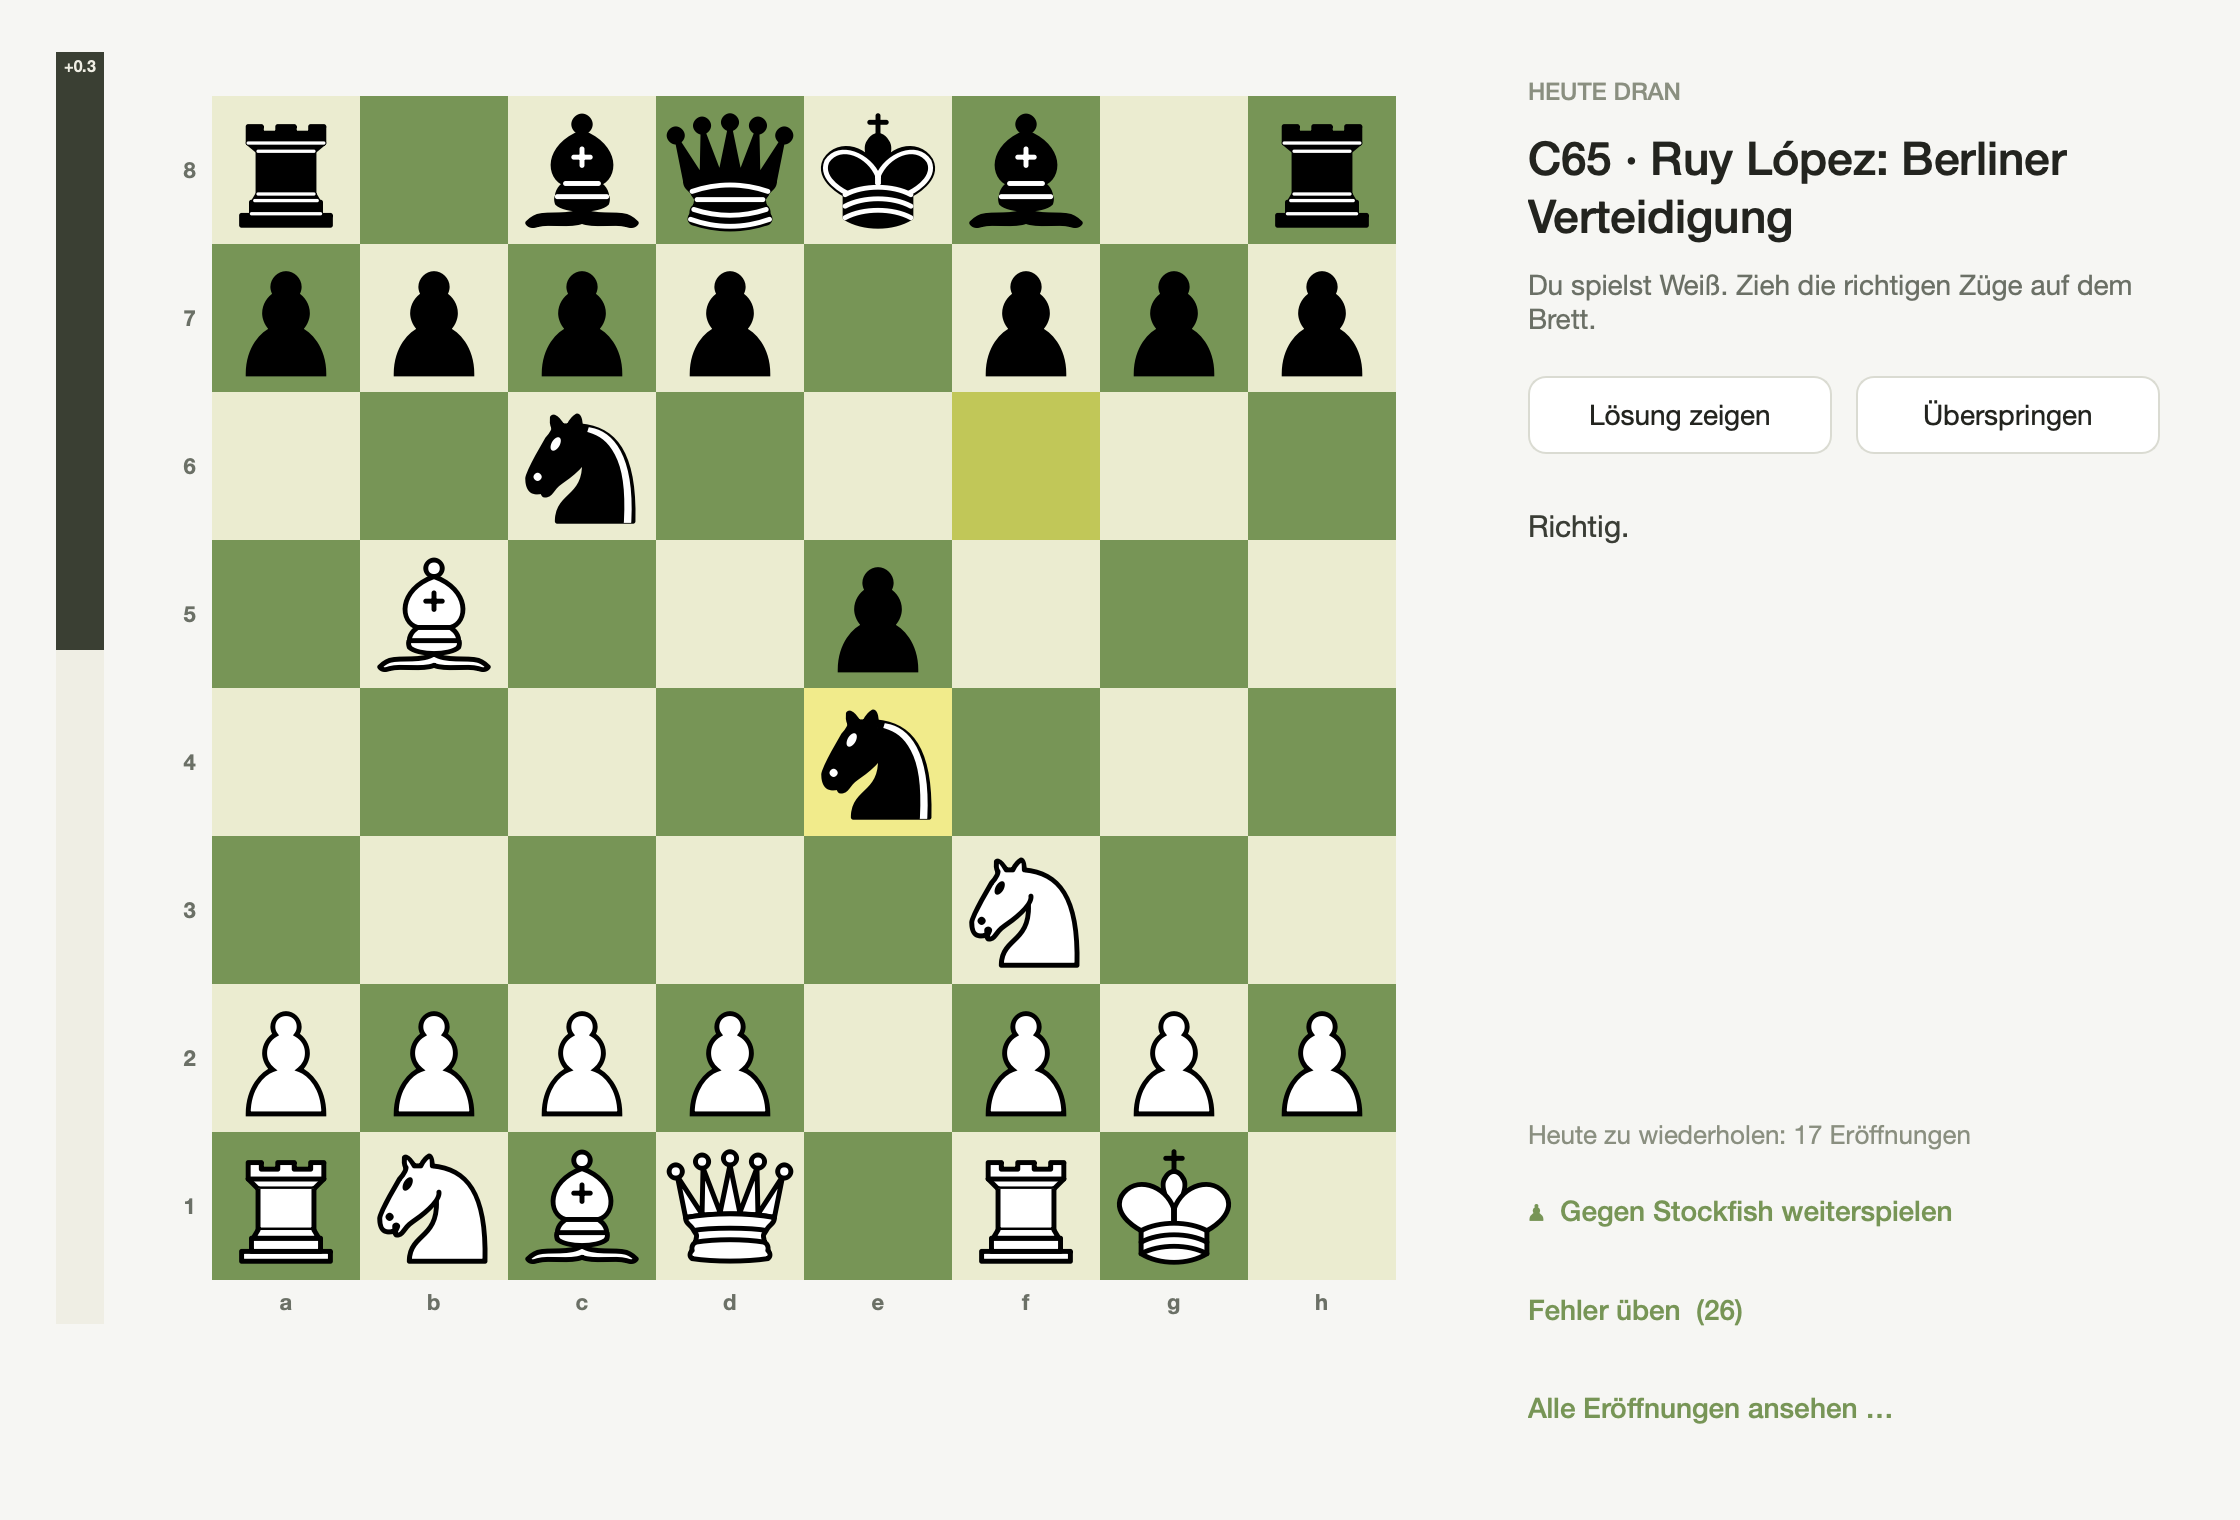
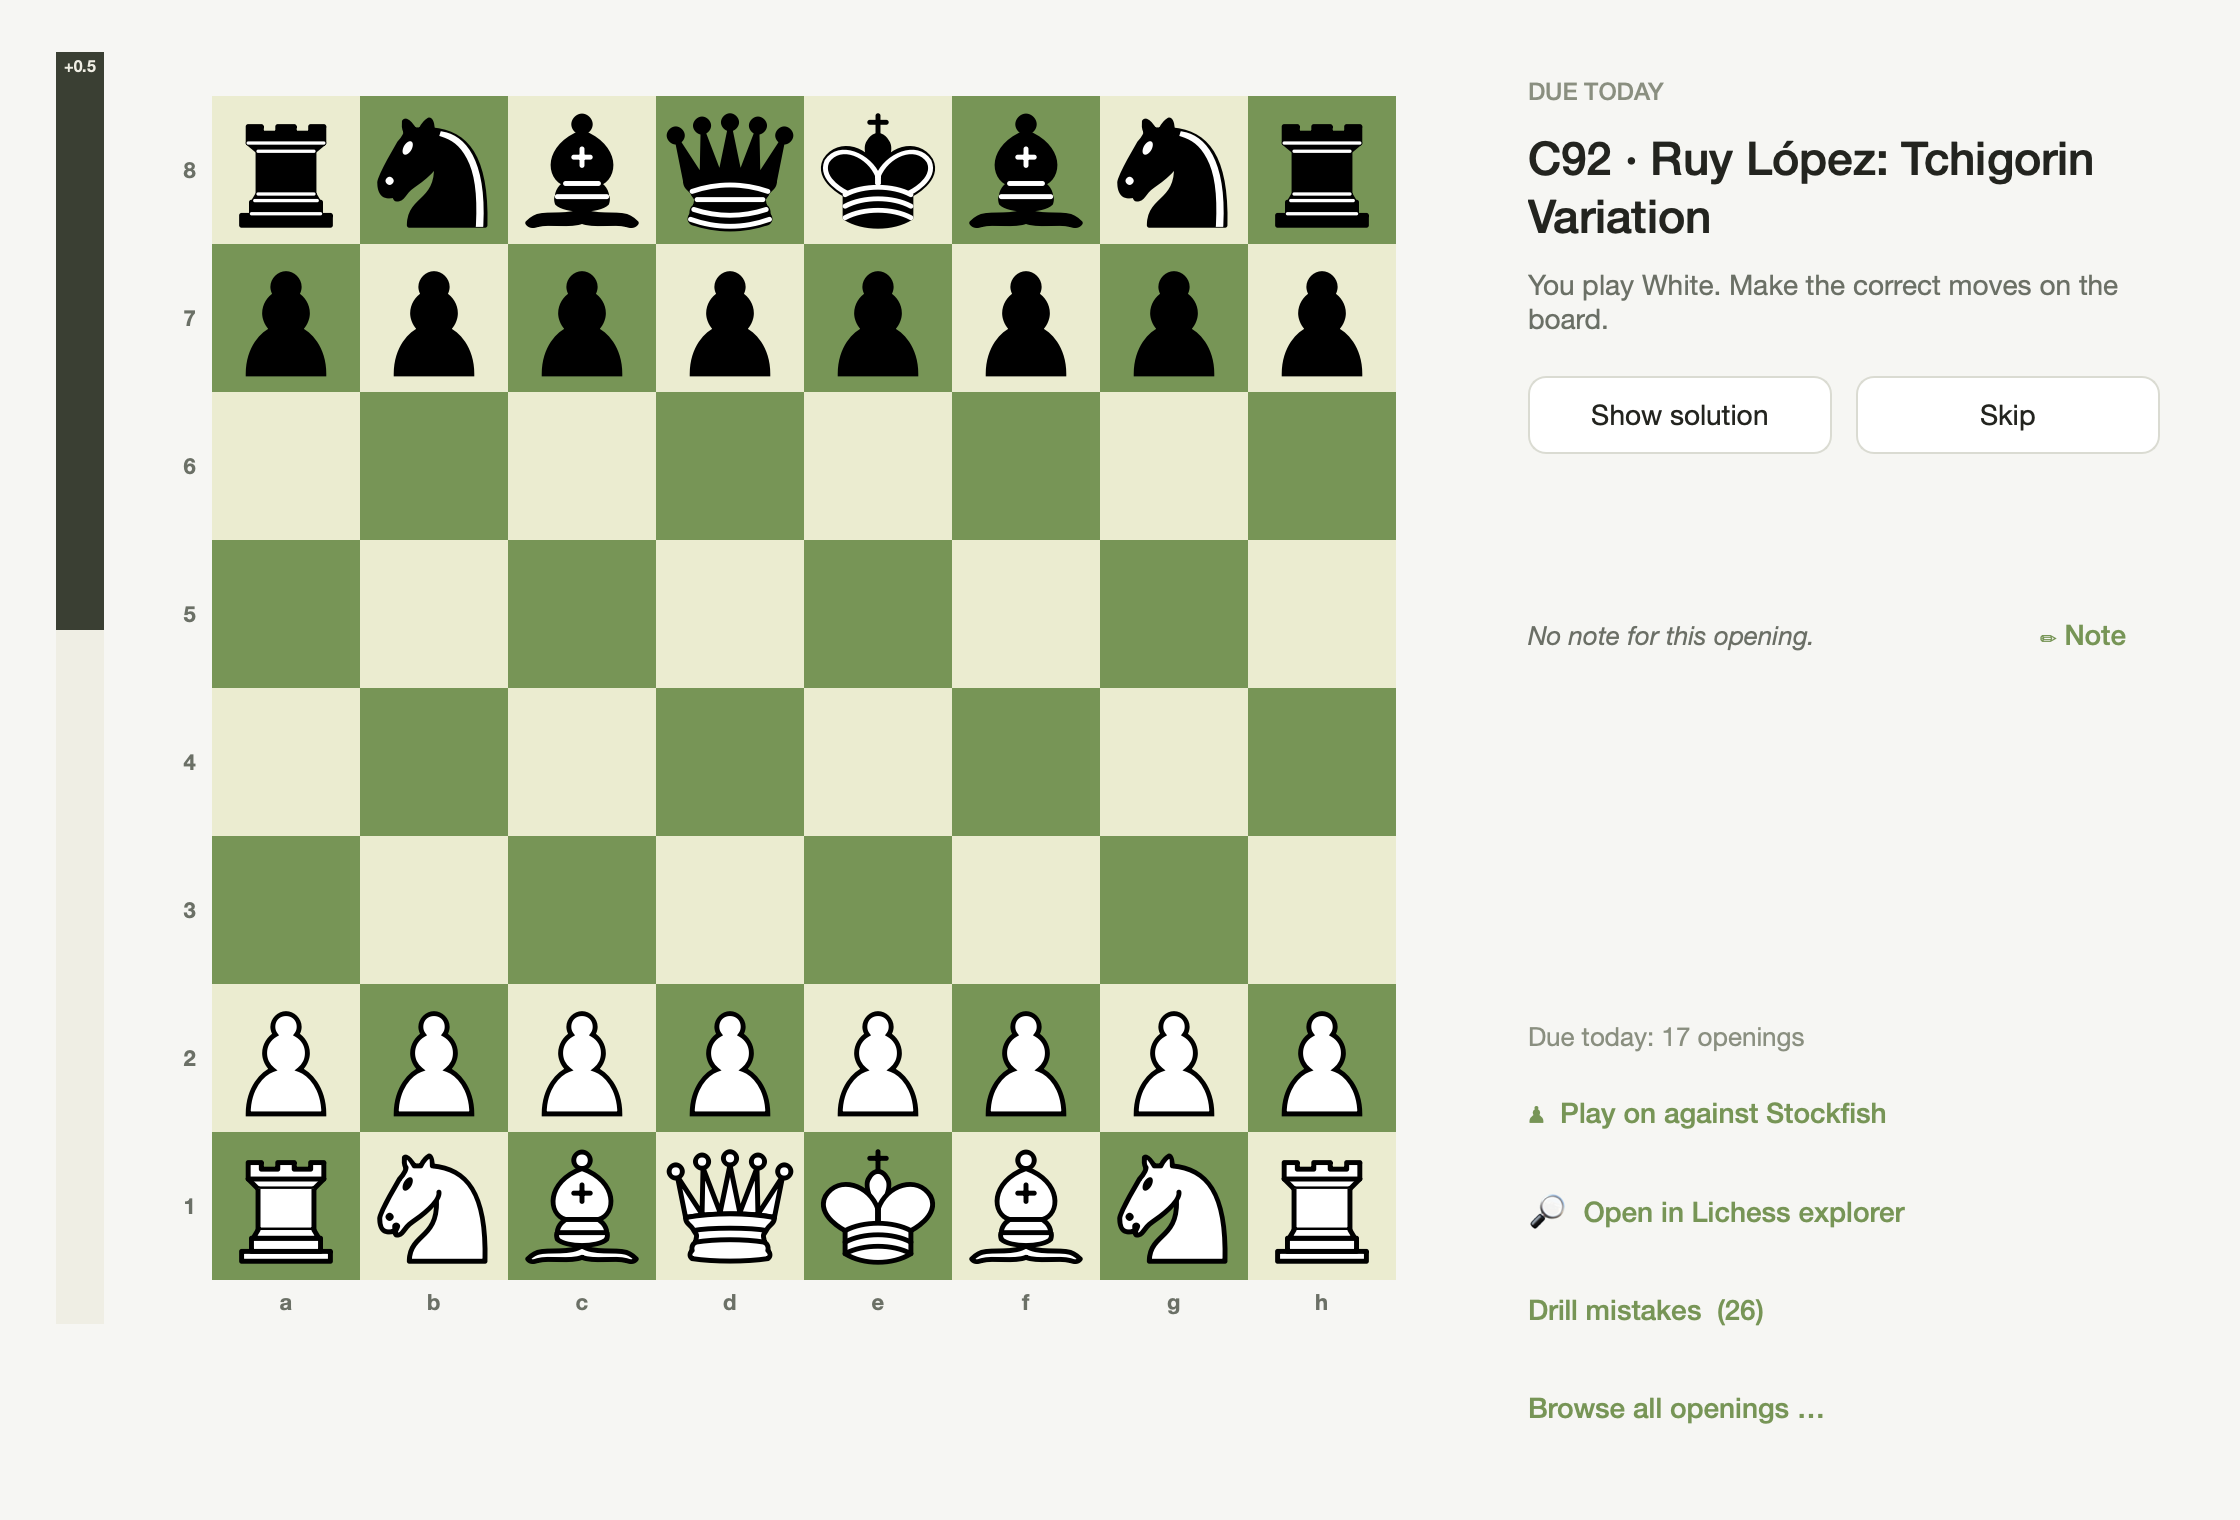
READMEs: English screenshot for the English README, German one for the German

diff --git a/README.de.md b/README.de.md
@@ -12,7 +12,7 @@ Material *und* deine gespielten Partien von **Stockfish** prüfen.
 > eigenständig, ohne weitere Installation. Die Oberfläche gibt es auf
 > **Deutsch und Englisch**.
 
-![Screenshot](docs/screenshot.png)
+![Screenshot](docs/screenshot.de.png)
 
 ## Download (fertige App)
 